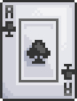
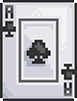
added 'selected' behaviour to cards, correctly cancel 'deal next card' behaviour after deal gosh, animating properties is nice and easy once you get used to callback contexts tried adding a shadow, fixed club_ace_small scaling moved the deck and hand zone a bit higher, can't see it on my smaller mon

diff --git a/main/deck/card.go b/main/deck/card.go
@@ -85,3 +85,26 @@ embedded_components {
     w: 1.0
   }
 }
+embedded_components {
+  id: "shadow"
+  type: "sprite"
+  data: "default_animation: \"card_shadow\"\n"
+  "material: \"/builtins/materials/sprite.material\"\n"
+  "blend_mode: BLEND_MODE_ALPHA\n"
+  "textures {\n"
+  "  sampler: \"texture_sampler\"\n"
+  "  texture: \"/main/main.atlas\"\n"
+  "}\n"
+  ""
+  position {
+    x: 0.0
+    y: 0.0
+    z: -1.0
+  }
+  rotation {
+    x: 0.0
+    y: 0.0
+    z: 0.0
+    w: 1.0
+  }
+}
